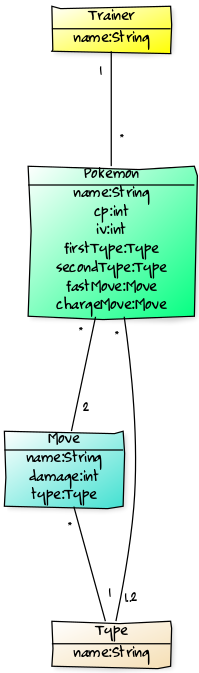
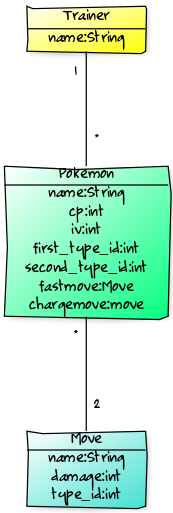
Fixed Type names and updated the class diagram.

diff --git a/application/templates/index.html b/application/templates/index.html
@@ -44,7 +44,7 @@
       <th>Id</th>
       <th>Move</th>
       <th>Damage</th>
-      <th>Charged?</th>
+      <th>Is Charged</th>
       <th>Bars</th>
     </tr>
     {% for move in movelist %}

diff --git a/application/type/models.py b/application/type/models.py
@@ -2,22 +2,22 @@ import enum
 from sqlalchemy import Integer, Enum
 
 class Type(enum.Enum):
-    bug = 1
-    dark = 2
-    dragon = 3
-    electric = 4
-    fairy = 5
-    fighting = 6
-    fire = 7
-    flying = 8
-    ghost = 9
-    grass = 10
-    ground = 11
-    ice = 12
-    normal = 13
-    poison = 14
-    psychic = 15
-    rock = 16
-    steel = 17
-    water = 18
-    none = 19
+    Empty = 1
+    Bug = 2
+    Dark = 3
+    Dragon = 4
+    Electric = 5
+    Fairy = 6
+    Fighting = 7
+    Fire = 8
+    Flying = 9
+    Ghost = 10
+    Grass = 11
+    Ground = 12
+    Ice = 13
+    Normal = 14
+    Poison = 15
+    Psychic = 16
+    Rock = 17
+    Steel = 18
+    Water = 19

diff --git a/application/models.py b/application/models.py
@@ -44,6 +44,8 @@ class Pokemon(Base):
             response.append({"name":row[3], "cp":row[4], "iv":row[5], "trainer":row[6]})
         return response
 
+    #USEFUL: select name from pokemon group by name order by count(*) desc limit 1;
+
     @staticmethod
     def find_highest_iv():
         stmt = text("select * from pokemon order by iv desc limit 1")
@@ -53,6 +55,9 @@ class Pokemon(Base):
         for row in res:
             response.append({"name":row[3], "cp":row[4], "iv":row[5], "trainer":row[6]})
         return response
+
+    @staticmethod
+    def most_common_move_of_trainer():
 
     def fast_move_name(self):
         movename = Move.getNameById(self.fastmove_id)
